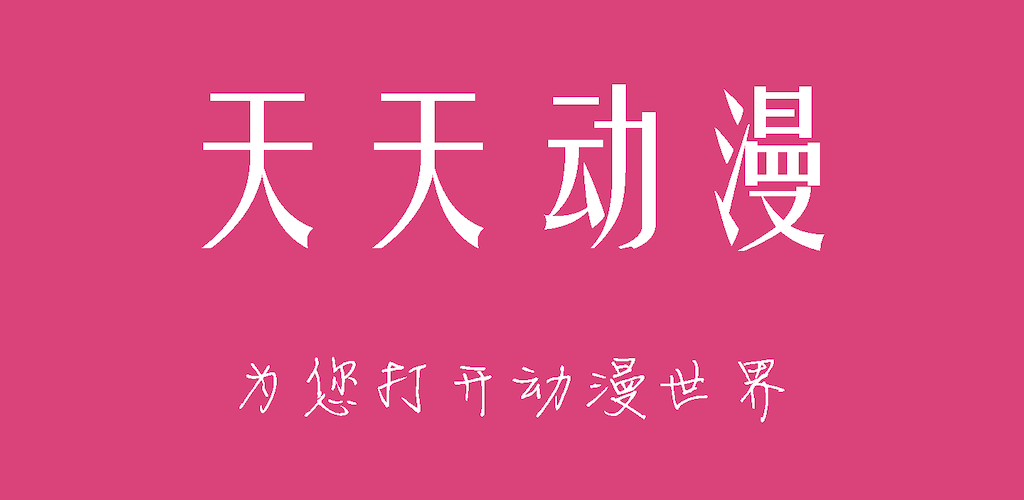
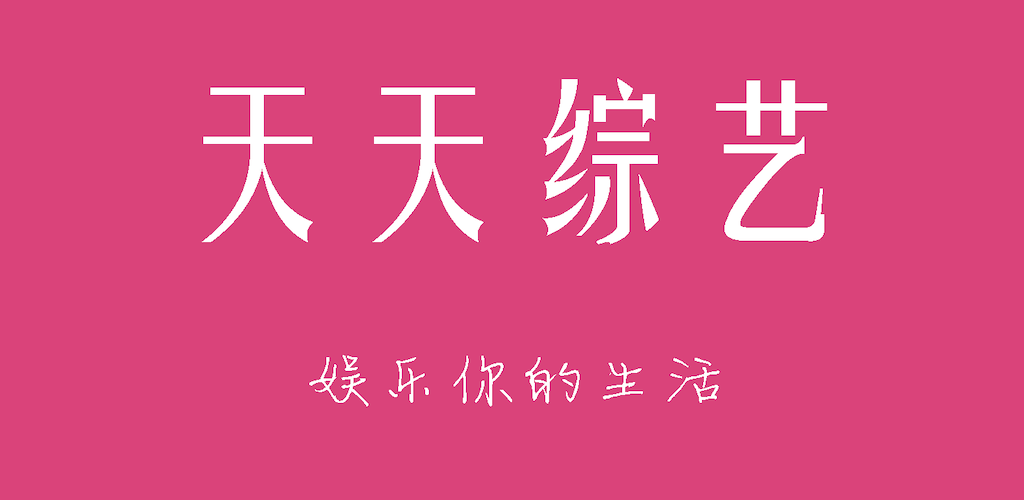
修复了一些问题

diff --git a/support/index.html b/support/index.html
@@ -21,7 +21,7 @@
     <link rel="stylesheet" type="text/css" href="css/bootstrap.min.css" />
     <link rel="stylesheet" type="text/css" href="css/global.css" />
     <link rel="stylesheet" type="text/css" href="css/base.css" />
-    <title>天天动漫</title>
+    <title>天天综艺</title>
 </head>
 
 <body>
@@ -38,7 +38,7 @@
             <p style="font-size: 20px;padding-bottom: 10px;">应用介绍</p>
             <div class="dsp margin-bottom60">
                 <section>
-                    “天天动漫“提供热播动漫大全。“天天动漫“汇集众多高清动漫资源，供您免费在线观看。看高清动漫就来“天天动漫“！
+                    ”天天综艺“每天搜集大陆、港台、日韩、欧美各类综艺节目，为用户精心推荐原创自制、明星访谈、真人选秀、亲子教育、恋爱交友等类型节目，看综艺节目就来“天天综艺”！
                 </section>
             </div>
         </div>

diff --git a/support/privacypolicy.html b/support/privacypolicy.html
@@ -31,7 +31,7 @@
   </style>
   <meta data-vue-meta="true" data-vmid="keywords" name="keywords" content="天天动漫" />
   <meta data-vue-meta="true" data-vmid="description" name="description" content="本软件尊重并保护所有使用服务用户的个人隐私权。为了给您提供更准确、更有个性化的服务，本软件会按照本隐私权政策的规定使用和披露您的个人信息。但本软件将以高度的勤勉、审慎义务对待这些信息。除本隐私权政策另有规定外，在未征得您事先许可的情况下，本软件不会将这些信息对" />
-  <title data-vue-meta="true">天天动漫 隐私政策</title>
+  <title data-vue-meta="true">天天综艺 隐私政策</title>
 </head>
 
 <body>
